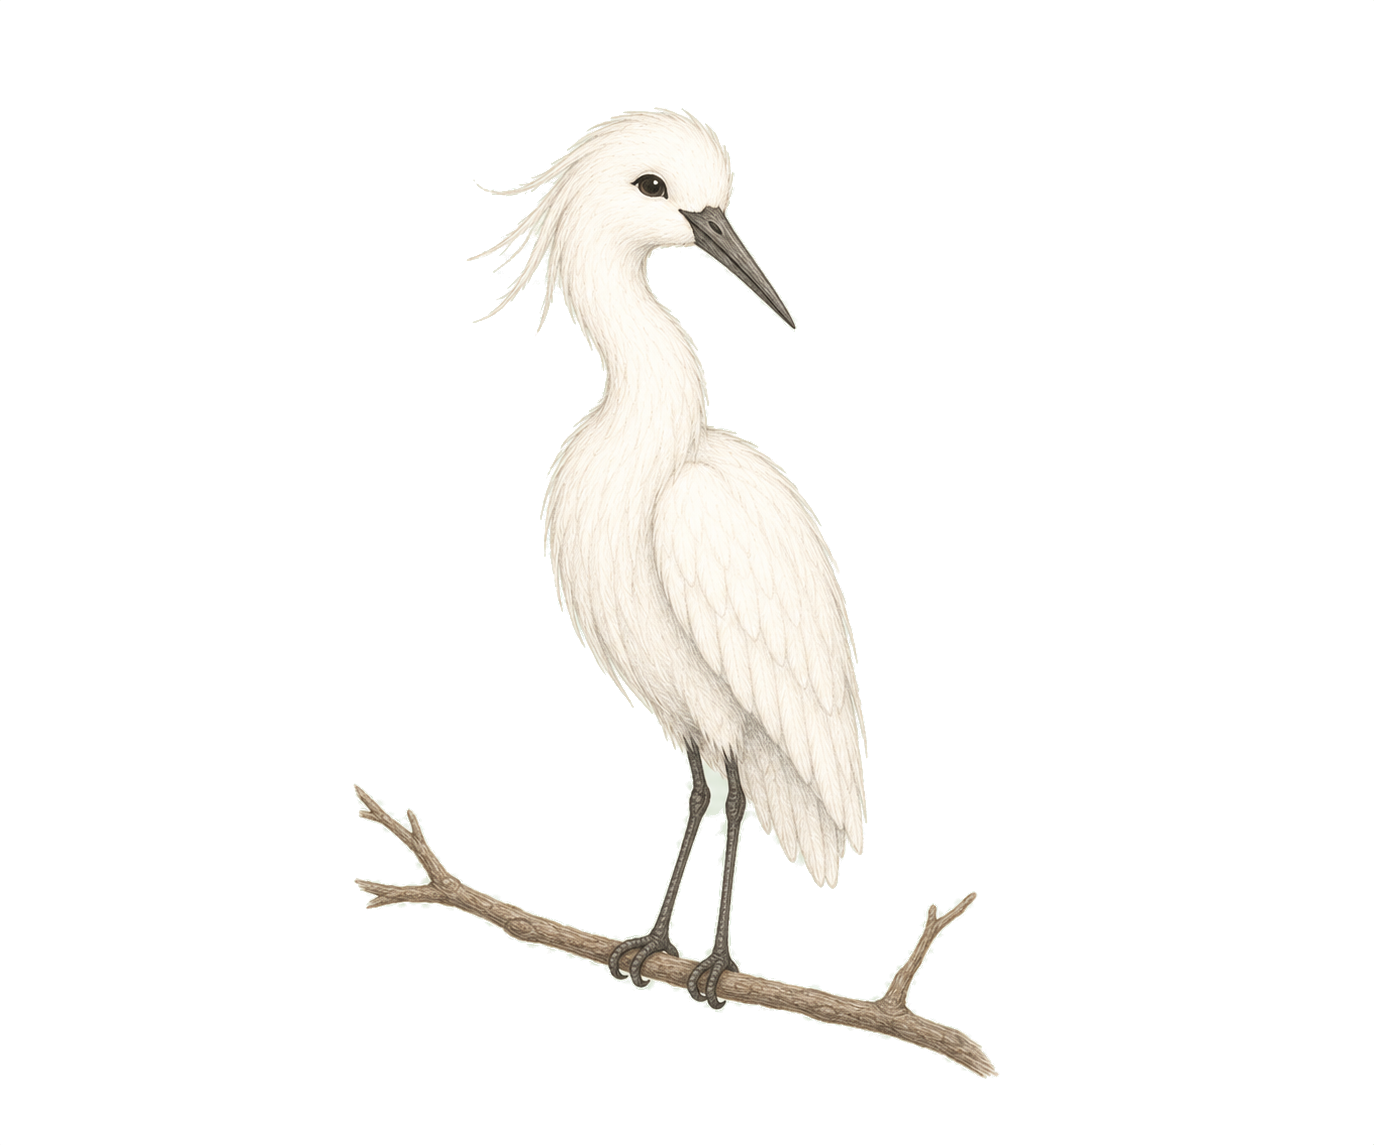
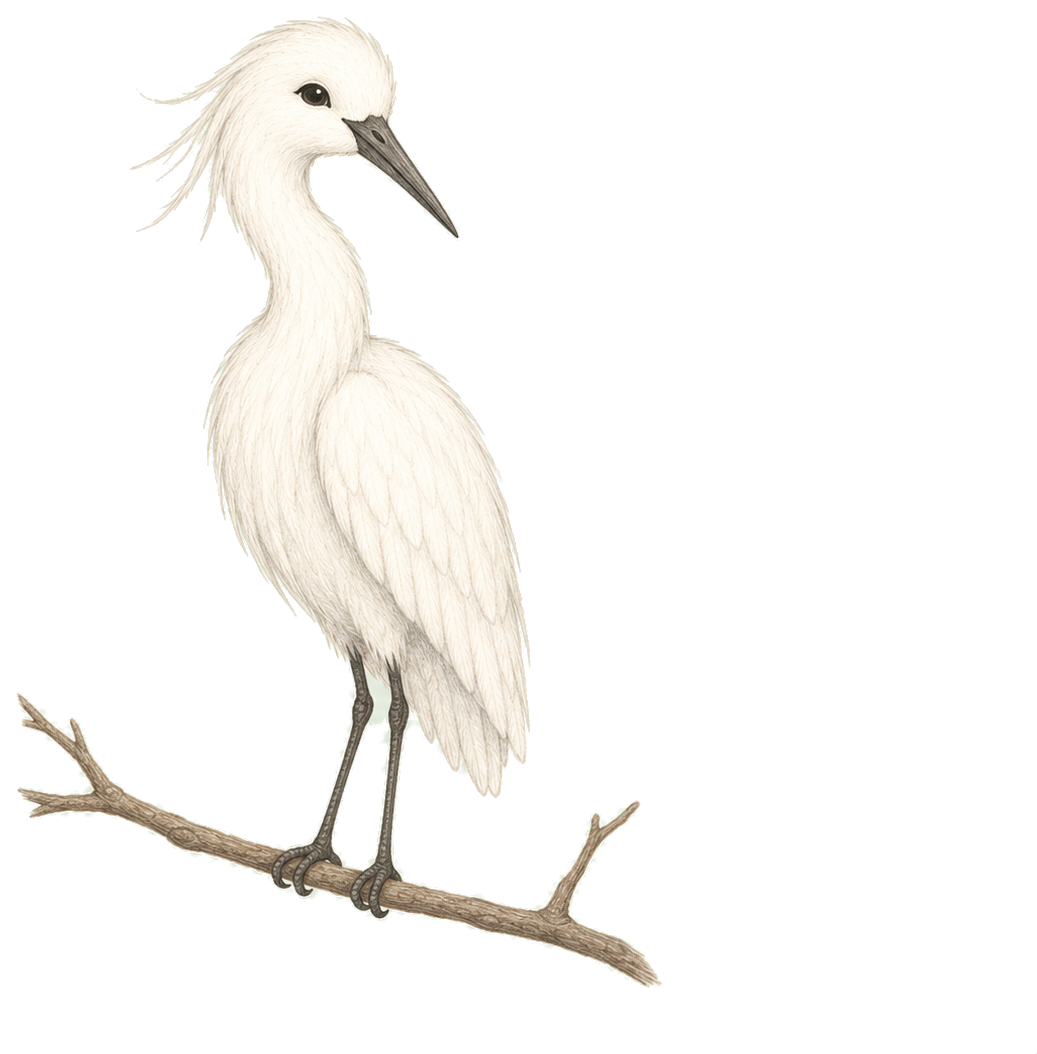
assets: 배경 노이즈 알파 제거로 트림 정확도 개선, 곰·새·토끼 재생성
Claude-Session: https://claude.ai/code/session_01BZsYGgJgCZUFJFReJtTQWH

Changed region(s): [[0.0, 0.0, 0.7406, 0.9412], [0.3394, 0.0304, 0.3703, 0.0607]]

diff --git a/scripts/knockout-bg.py b/scripts/knockout-bg.py
@@ -50,6 +50,10 @@ if n:
 alpha = np.ones((h, w), np.float32)
 ramp = np.clip((dist - LO) / (HI - LO), 0, 1)
 alpha[bg_region] = ramp[bg_region]
+# 배경 노이즈로 생긴 옅은 알파(그림과 붙어 있지 않은 것)는 0으로
+strong = alpha > 0.3
+keep = ndimage.binary_dilation(strong, iterations=3)
+alpha[bg_region & ~keep] = 0
 
 # un-premultiply: 관측색 = a*fg + (1-a)*bg  →  fg = (obs - (1-a)*bg) / a
 a3 = alpha[..., None]
